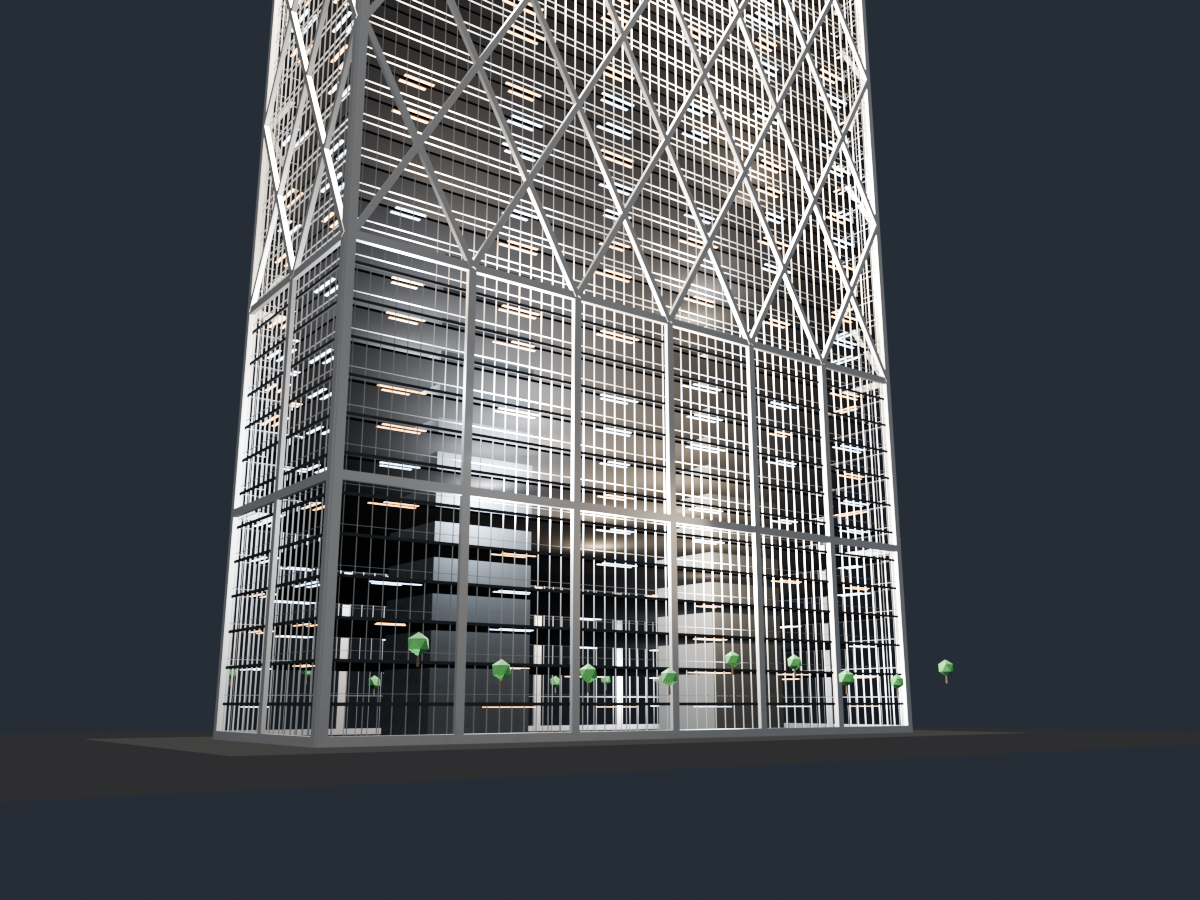
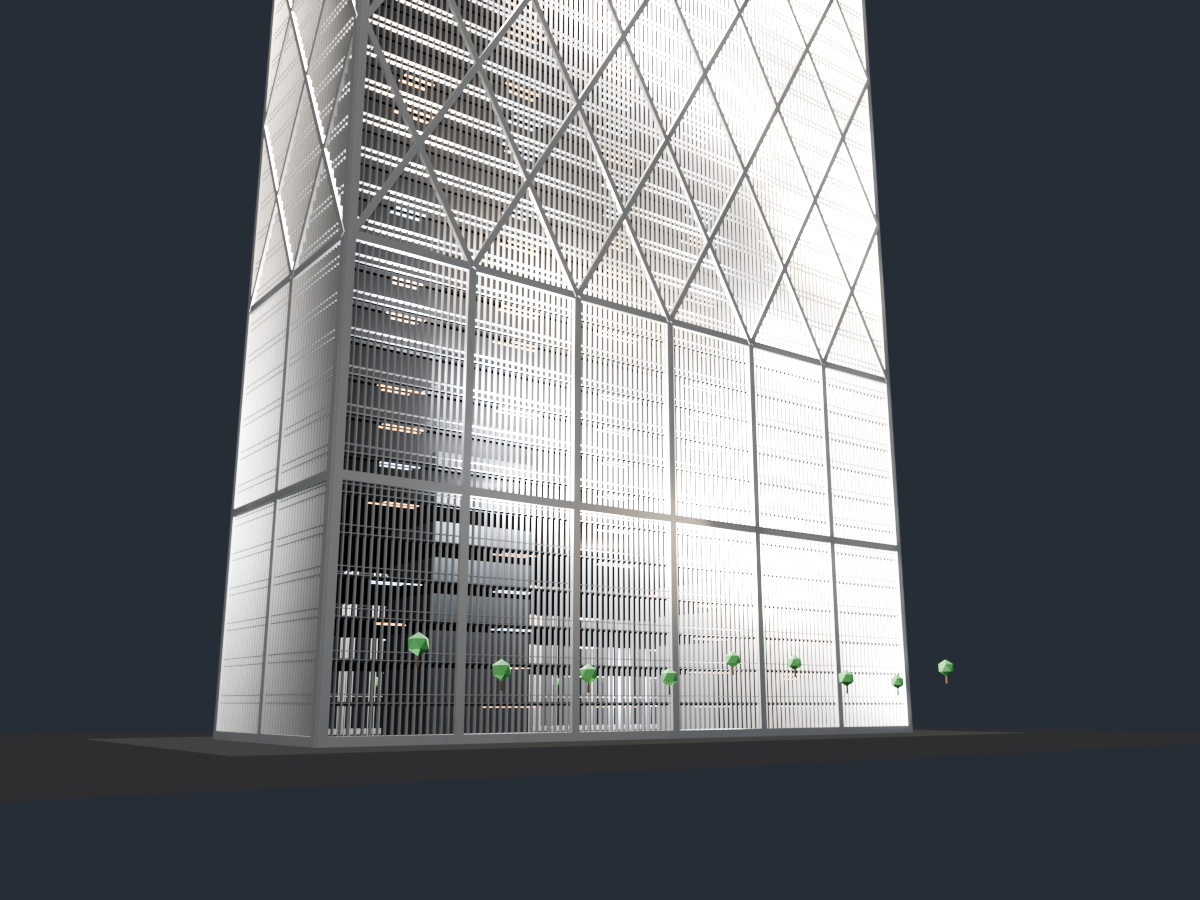
feat: use Stack 2's office window frame on the Stack 3 lower block
The joints were a 50 x 200 mm strip. They are now Stack 2's office curtain
wall: mullions 140 mm wide by 600 mm deep on a 0.95 m module, transoms 100 mm
at every floor plus one a metre above, and a dark sill at the floor.

Changed region(s): [[0.185, 0.0, 0.7708, 0.84]]

diff --git a/build_stack3.py b/build_stack3.py
@@ -452,34 +452,39 @@ def build_lattice(mats, cols, rng):
         glass.face_box(face, -half, half, z0 + 0.2, z1 - 0.2, -0.75, 0.14)
     glass.finish()
 
-    # The pane frame: 200 mm wide flat bars, one full storey tall between the
-    # horizontals, so every pane sits inside a 200 mm border - the flat strip
-    # frame the client asked for, after Stack 2.
+    # The window frame, straight from Stack 2's office curtain wall: mullions
+    # 140 mm on the face by 600 mm deep on a 0.95 m module, a 100 mm transom at
+    # every floor and a second one 1 m above it, plus a dark sill at the floor.
     mull = Part("Lattice_Mullions", mats["silver"], col)
     for face in FACES:
         half = face_half(face)
-        n = max(8, int(round(2 * half / 1.9)))
+        n = max(8, int(round(2 * half / 0.95)))
         step = 2 * half / n
         for i in range(n + 1):
             u = -half + i * step
-            # Flat bar section: 50 mm on the face, 200 mm deep into the reveal.
-            mull.face_box(face, u - 0.025, u + 0.025, z0, z1, -0.62, 0.20)
+            mull.face_box(face, u - 0.07, u + 0.07, z0, z1, -0.60, 0.60)
     mull.finish()
 
     trans = Part("Lattice_Transoms", mats["silver"], col)
     for face in FACES:
         half = face_half(face)
         for z in [z0] + [lev for lev in floor_levels() if z0 < lev <= z1]:
-            # floor line
-            lo = 0.0 if z <= z0 else z - 0.025
-            hi = 0.05 if z <= z0 else z + 0.025
-            trans.face_box(face, -half, half, lo, hi, -0.62, 0.20)
-            # and a second transom about a metre above every floor, so each
-            # window reads as two panes like the Stack 2 apartment wall
-            if z + 1.15 < z1:
-                trans.face_box(face, -half, half, z + 1.05, z + 1.10,
-                               -0.62, 0.20)
+            lo = 0.0 if z <= z0 else z - 0.05
+            hi = 0.10 if z <= z0 else z + 0.05
+            trans.face_box(face, -half, half, lo, hi, -0.60, 0.60)
+            if z + 1.10 < z1:
+                trans.face_box(face, -half, half, z + 0.95, z + 1.05,
+                               -0.60, 0.60)
     trans.finish()
+
+    sill = Part("Lattice_Sills", mats["slate"], col)
+    for face in FACES:
+        half = face_half(face)
+        for z in floor_levels():
+            if z0 < z < z1:
+                sill.face_box(face, -half, half, z + 0.02, z + 0.14,
+                              -0.56, 0.10)
+    sill.finish()
 
     # A real curtain wall behind the big frame: narrow vertical panes between
     # thin mullions, with a white spandrel band on every floor - the office

diff --git a/README.md b/README.md
@@ -251,9 +251,9 @@ module and run 28 floors.
   band, the floor line is the dark slab edge itself; every floor plate in the
   model is near-black. Behind it is one dark glass skin with no visible pane
   joints at all: a fine vertical curtain wall of 1.25 m panes - 4:1 with the
-  5 m storey - each window framed by flat bars of 50 x 200 mm: verticals on a
-  1.9 m pitch, a transom on every floor and a second one about a metre above it,
-  so each window is two panes like the Stack 2 apartment wall. Every floor, here and in the planted level, is
+  5 m storey. The window frame is Stack 2's office curtain wall: 140 mm mullions
+  by 600 mm deep on a 0.95 m module, a 100 mm transom on every floor and a
+  second one a metre above it, with a dark sill at the floor. Every floor, here and in the planted level, is
   lit the same way as the apartments: one cool-or-warm ceiling strip per room.
 - **Plaza, 158-188 m.** A planted arcade of branching tree columns and planting,
   open through - no interior wall - with the same room strips on its floors.
